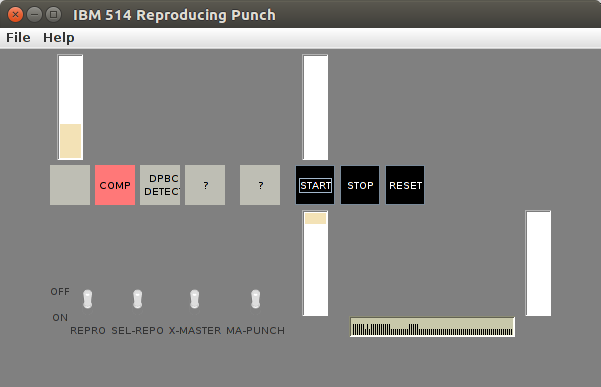
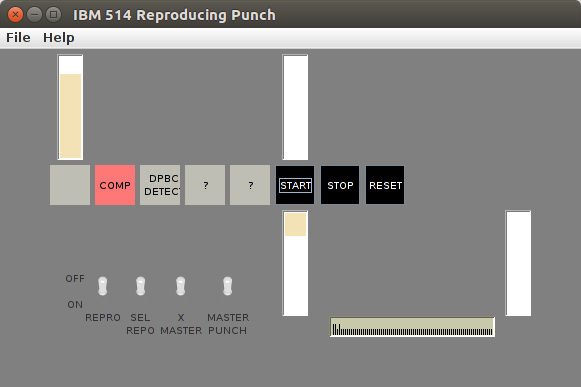
Add common framework for machine stop.

diff --git a/cardpunch/ReproducingPunch.java b/cardpunch/ReproducingPunch.java
@@ -138,7 +138,7 @@ class ReproducingPunch implements Machine, ActionListener, Runnable
 	// TODO: these are indicators...
 	JButton idle;
 	JButton comp;
-	JButton dpdc;
+	JButton dpbc;
 	JButton form;
 	JButton feed;
 
@@ -157,7 +157,7 @@ class ReproducingPunch implements Machine, ActionListener, Runnable
 	CharConverter cvt;
 
 	boolean stopped;
-	boolean errorStop;
+	ErrorStop errorStop;
 	boolean ibm514;
 	boolean progSet;
 	boolean empty;
@@ -208,7 +208,7 @@ class ReproducingPunch implements Machine, ActionListener, Runnable
 		_frame = frame;
 		title = _frame.getTitle();
 		ibm514 = false;	// TODO: configure
-		errorStop = false;
+		errorStop = new ErrorStop(off);
 		progSet = false;
 		rbrush = new ReadingItem(80);
 		cbrush = new ReadingItem(80);
@@ -271,12 +271,16 @@ class ReproducingPunch implements Machine, ActionListener, Runnable
 		idle.setFocusable(false);
 		comp = makeButton("COMP", null, off, Color.black);
 		comp.setFocusable(false);
-		dpdc = makeButton("DPBC<BR>DETECT", null, off, Color.black);
-		dpdc.setFocusable(false);
+		dpbc = makeButton("DPBC<BR>DETECT", null, off, Color.black);
+		dpbc.setFocusable(false);
 		form = makeButton("?", null, off, Color.black);
 		form.setFocusable(false);
 		feed = makeButton("?", null, off, Color.black);
 		feed.setFocusable(false);
+		errorStop.addLight(comp);
+		errorStop.addLight(dpbc);
+		errorStop.addLight(form);
+		errorStop.addLight(feed);
 
 		// Control Panel Switches
 		repro = toggleSwitch();
@@ -419,8 +423,8 @@ class ReproducingPunch implements Machine, ActionListener, Runnable
 		gb.setConstraints(pn, gc);
 		_frame.add(pn);
 		++gc.gridx;
-		gb.setConstraints(dpdc, gc);
-		_frame.add(dpdc);
+		gb.setConstraints(dpbc, gc);
+		_frame.add(dpbc);
 		++gc.gridx;
 		pn = new JPanel();
 		pn.setPreferredSize(new Dimension(5, 5));
@@ -526,10 +530,11 @@ class ReproducingPunch implements Machine, ActionListener, Runnable
 		}
 		// TODO: other setup?
 	}
-	public void startPunch() {
-		if (doOneCycle()) {
-			// ???
+	public boolean startPunch() {
+		if (phopper.stackCount() == 0) {
+			return true;
 		}
+		return doOneCycle();
 	}
 	public ProgItem summaryEntry() {
 		return csplits.X();
@@ -876,6 +881,8 @@ class ReproducingPunch implements Machine, ActionListener, Runnable
 
 	// Do not require both cards to be fed, only one is required to
 	// begin punching.
+	// TODO: improve restart capability... need to be able to restart
+	// where last stopped...
 	private boolean doOneCycle() {
 		boolean both = repro.isSelected();
 		boolean rfeed = true;
@@ -942,7 +949,7 @@ class ReproducingPunch implements Machine, ActionListener, Runnable
 		if (!comparing.processExits()) {
 			// error stop...
 			comp.setBackground(red);
-			errorStop = true;
+			errorStop.set(true);
 			// end cycle? or return later?
 			return true;
 		}
@@ -955,7 +962,7 @@ class ReproducingPunch implements Machine, ActionListener, Runnable
 public static int ncards = 0;
 
 	public void run() {
-		if (errorStop) {
+		if (errorStop.is()) {
 			return;
 		}
 		_frame.setTitle(title + " (running)");
@@ -1129,8 +1136,7 @@ public static int ncards = 0;
 				stopped = true;
 			} else if (act.equals("reset")) {
 				comparing.clear();
-				comp.setBackground(off);
-				errorStop = false;
+				errorStop.clear();
 			}
 			return;
 		} else if (e.getSource() instanceof CardHandler) {

diff --git a/cardpunch/CardAccounting.java b/cardpunch/CardAccounting.java
@@ -199,7 +199,14 @@ class CardAccounting implements Machine, Puncher, ActionListener, Runnable
 			super.set(b); // never watchers?
 			if (b) return;
 			if (summary != null) {
-				summary.startPunch();
+				// TODO: too much thrash?
+				feed.setBackground(red);
+				if (summary.startPunch()) {
+					errorStop.set(true);
+					stopped = true;
+				} else {
+					feed.setBackground(off);
+				}
 			}
 		}
 	}
@@ -254,6 +261,7 @@ class CardAccounting implements Machine, Puncher, ActionListener, Runnable
 	boolean stopped;
 	boolean ibm403;
 	boolean progSet;
+	ErrorStop errorStop;
 	JPanel acc;
 	JCheckBox acc_cb;
 	JTextArea acc_stk;
@@ -323,6 +331,7 @@ class CardAccounting implements Machine, Puncher, ActionListener, Runnable
 		summary = summ;
 		title = _frame.getTitle();
 		ibm403 = false;	// TODO: configure
+		errorStop = new ErrorStop(off);
 		progSet = false;
 		read1 = new ReadingItem(80);
 		read2 = new ReadingItem(80);
@@ -388,6 +397,10 @@ class CardAccounting implements Machine, Puncher, ActionListener, Runnable
 		form.setFocusable(false);
 		feed = makeButton("CARD<BR>FEED<BR>STOP", null, off, Color.black);
 		feed.setFocusable(false);
+		errorStop.addLight(stopd);
+		errorStop.addLight(fuse);
+		errorStop.addLight(form);
+		errorStop.addLight(feed);
 
 		text = new JTextArea(20, 89);
 		text.setEditable(false);
@@ -1093,9 +1106,11 @@ class CardAccounting implements Machine, Puncher, ActionListener, Runnable
 public static int ncards = 0;
 
 	public void run() {
+		if (errorStop.is()) {
+			return;
+		}
 		_frame.setTitle(title + " (running)");
 		idle.setBackground(off);
-		feed.setBackground(off); // OFF by what?
 		// TODO: allow re-starting with cards still in place?
 		byte[] card1 = null;
 		byte[] card2 = null;
@@ -1177,6 +1192,7 @@ public static int ncards = 0;
 			}
 			// if programmed stop... {
 			//	stopd.setBackground(red);
+			//	errorStop.set(true);
 			//	stopped = true;
 			// }
 			try {
@@ -1328,7 +1344,7 @@ public static int ncards = 0;
 			} else if (act.equals("stop")) {
 				stopped = true;
 			} else if (act.equals("total")) {
-				stopd.setBackground(off);
+				errorStop.clear(); // yes?
 				processFinalTotal();
 			}
 			return;

diff --git a/cardpunch/CardCollator.java b/cardpunch/CardCollator.java
@@ -123,7 +123,7 @@ class CardCollator implements Machine, ActionListener, Runnable
 
 	boolean stopped;
 	boolean runningOut;
-	boolean errorStop;
+	ErrorStop errorStop;
 	boolean ibm087;
 	boolean progSet;
 	JPanel acc;
@@ -212,7 +212,7 @@ class CardCollator implements Machine, ActionListener, Runnable
 
 		stopped = true;
 		runningOut = false;
-		errorStop = false;
+		errorStop = new ErrorStop(off);
 		hopper1 = new CardHopper("Primary Hopper", 20, 100, 1, false);
 		hopper2 = new CardHopper("Secondary Hopper", 20, 100, 1, false);
 		hopper1.setListener(this);
@@ -244,6 +244,9 @@ class CardCollator implements Machine, ActionListener, Runnable
 		bcd1.setFocusable(false);
 		bcd2 = makeButton("BCD 2", null, off, Color.black, 1.0);
 		bcd2.setFocusable(false);
+		errorStop.addLight(error);
+		errorStop.addLight(bcd1);
+		errorStop.addLight(bcd2);
 
 		_menus = new JMenu[3];
 		JMenu mu;
@@ -859,10 +862,7 @@ class CardCollator implements Machine, ActionListener, Runnable
 public static int ncards = 0;
 
 	public void reset() {
-		errorStop = false;
-		error.setBackground(off);
-		bcd1.setBackground(off);
-		bcd2.setBackground(off);
+		errorStop.clear();
 		// TODO: allow machine to run...
 	}
 
@@ -881,7 +881,7 @@ public static int ncards = 0;
 		CardStacker out1 = null;
 		CardStacker out2 = null;
 		ready.setBackground(off);
-		if (errorStop) {
+		if (errorStop.is()) {
 			return;
 		}
 		_frame.setTitle(title + " (running)");
@@ -962,7 +962,7 @@ public static int ncards = 0;
 			}
 			impulseCycle(allCards);	// End ALL CARDS cycle
 			if (errStp.is(0) && !runningOut) {
-				errorStop = true;
+				errorStop.set(true);
 				error.setBackground(red);
 				stopped = true;
 				break;

diff --git a/cardpunch/ErrorStop.java b/cardpunch/ErrorStop.java
@@ -1,0 +1,35 @@
+// Copyright (c) 2017 Douglas Miller <durgadas311@gmail.com>
+
+import java.util.Vector;
+import java.awt.*;
+import javax.swing.*;
+
+public class ErrorStop extends ProgStart {
+	boolean errorStop;
+	Vector<JComponent> lights;
+	Color no_err;
+
+	// Lights are only ever turned on by caller, based on conditions.
+	public ErrorStop(Color off) {
+		super(false);
+		no_err = off;
+		errorStop = false;
+		lights = new Vector<JComponent>();
+	}
+	public boolean stopped() { return errorStop; }
+	public void clear() {
+		for (JComponent cmp : lights) {
+			cmp.setBackground(no_err);
+		}
+		errorStop = false;
+	}
+	public void addLight(JComponent cmp) {
+		lights.add(cmp);
+	}
+	@Override
+	public void set(boolean b) {
+		if (!b) return; // latching, only clear() turns off
+		if (errorStop) return; // redundant
+		errorStop = true;
+	}
+}

diff --git a/cardpunch/CardViewer.java b/cardpunch/CardViewer.java
@@ -143,6 +143,9 @@ class CardViewer implements Machine, ActionListener
 
 	private void addCard029(byte[] card, CharConverter cvt) {
 		String s = "";
+		if (text.getText().length() > 0) {
+			s += '\n';
+		}
 		for (int x = 0; x < 80; ++x) {
 			int p = getCol(x);
 			String t = cvt.punToAscii(p);
@@ -152,7 +155,6 @@ class CardViewer implements Machine, ActionListener
 				s += t;
 			}
 		}
-		s += '\n';
 		text.append(s);
 	}
 
